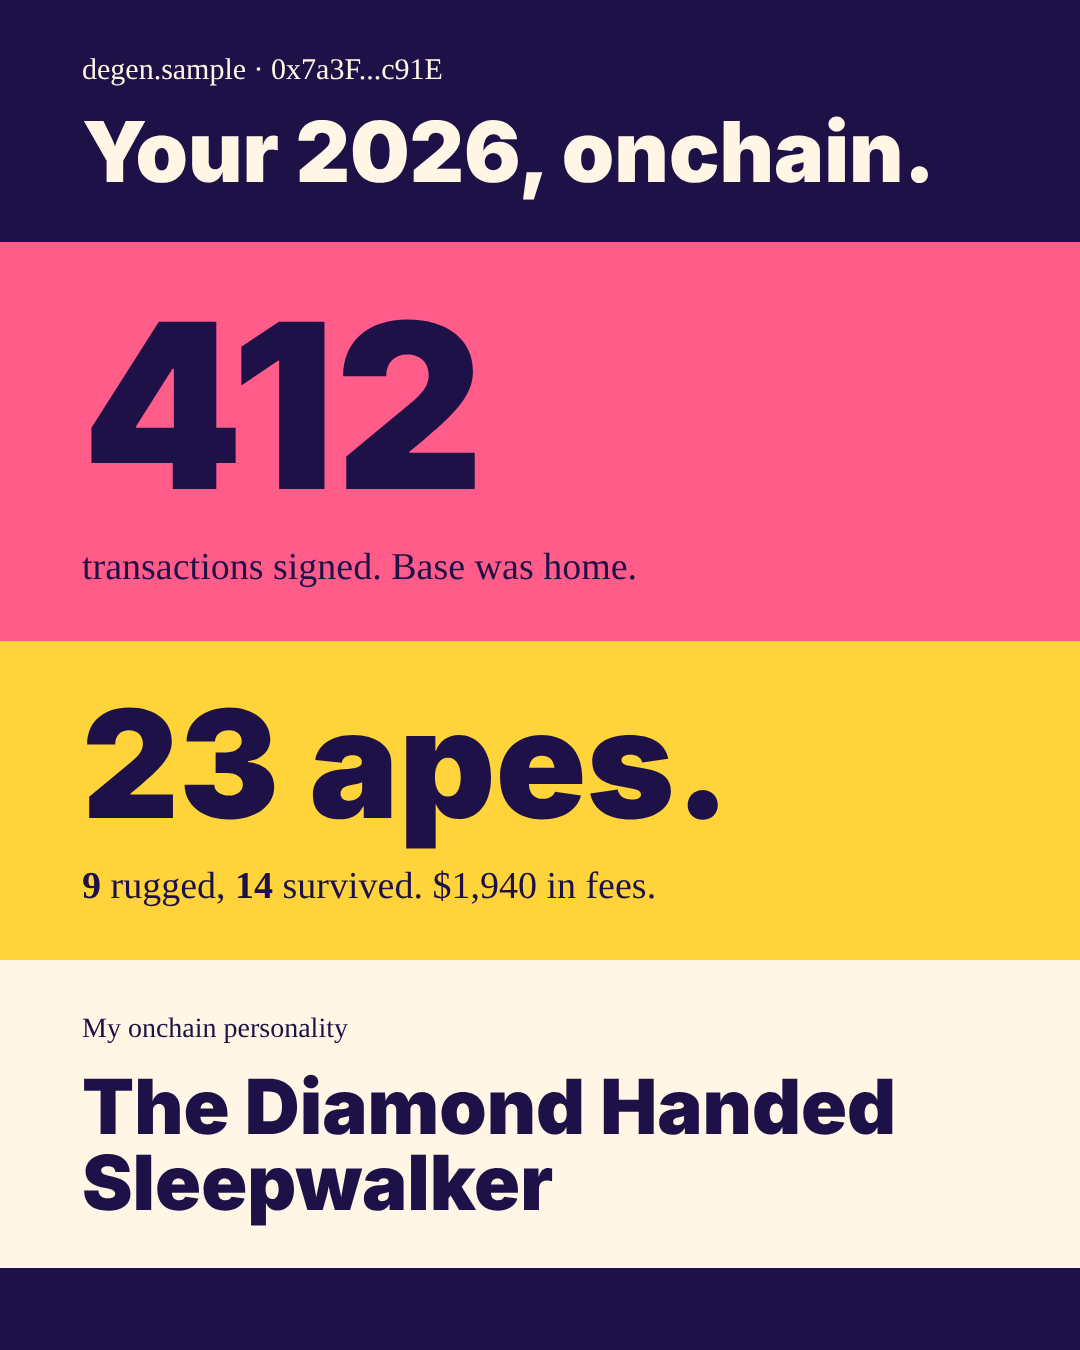
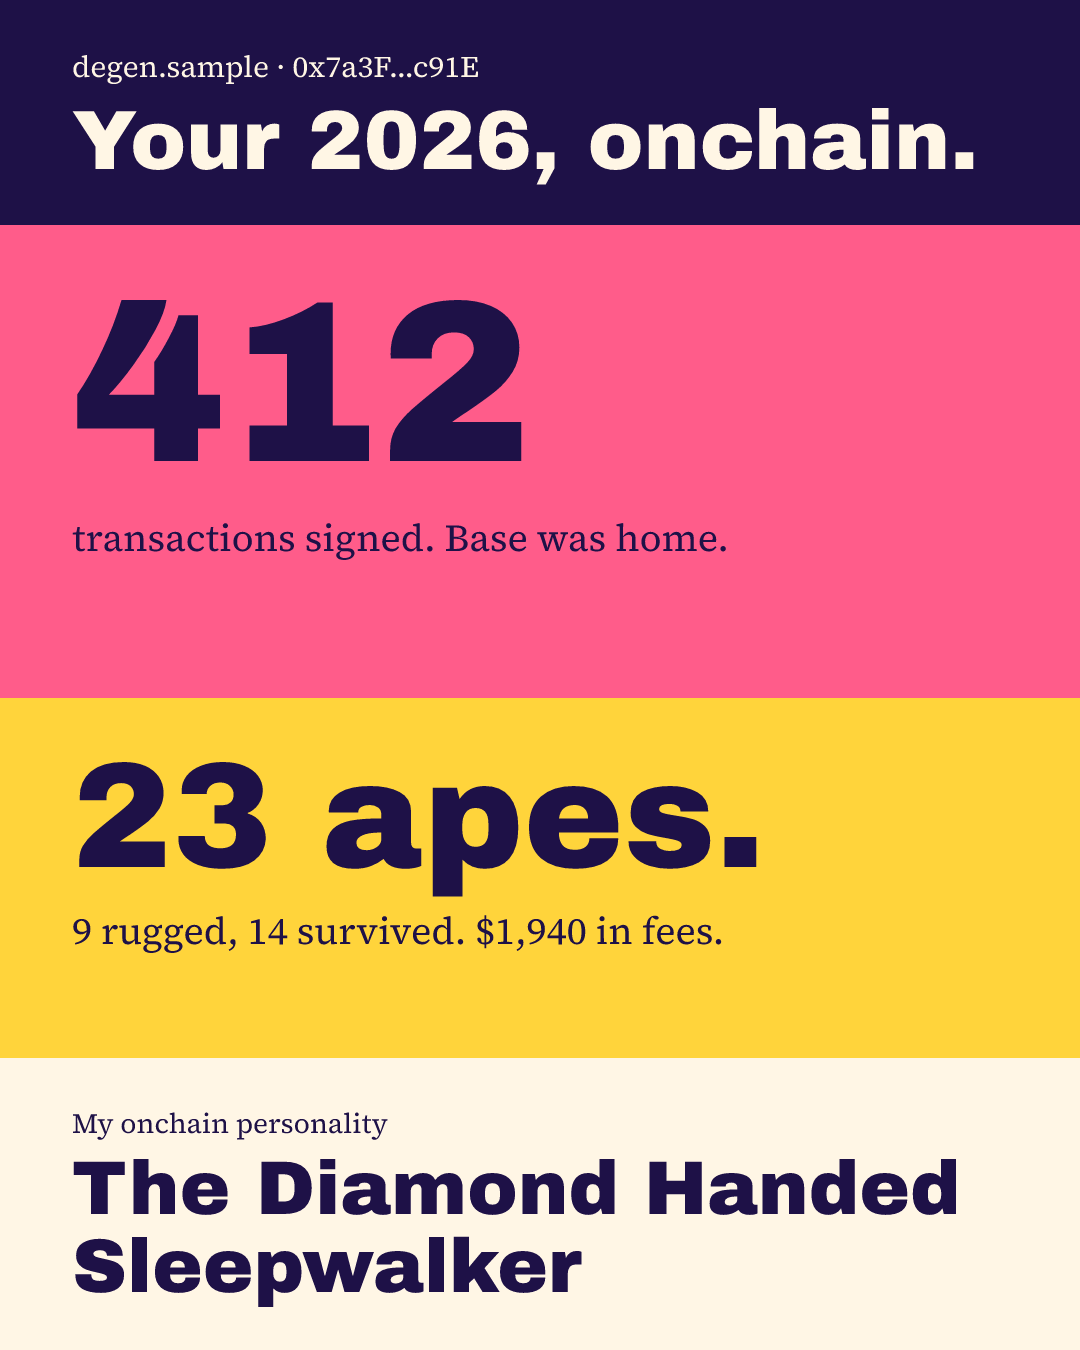
Add files via upload

diff --git a/README.md b/README.md
@@ -1,19 +1,18 @@
 # Onchain Wrapped
 
-A Spotify Wrapped style year in review for any wallet, built with **Hyper Elements** (`@unlayer/react-elements`).
-One data object and one set of components render **three outputs**:
+A Spotify Wrapped style year in review for any wallet, built with **[`@hyper-elements/react`](https://github.com/hyper-elements/hyper-elements)**.
+One data object and one set of components render **four outputs**:
 
-| Output | File | Use |
-|---|---|---|
-| Email (table based, Outlook/Gmail safe) | `email.html` | A teaser with the headline stats and a button to the full story |
-| Web page (responsive div/flexbox) | `web.html` | The full scrolling story |
-| PDF (print ready) | `onchain-wrapped.pdf` | A keepsake with a receipts page |
-| Share card (PNG) | `out/share-card.png` | A 1080x1350 image of the stats, made for posting |
+| Output | Root | Rendered with | File |
+|---|---|---|---|
+| Teaser email | `Email` | `render()` | `out/email.html`, `out/email.txt` |
+| Scrolling web story | `Page` | `render()` | `out/index.html` |
+| Keepsake PDF (6 full-bleed pages) | `Document` | `renderPdf()` | `out/wrapped.pdf` |
+| 1080 x 1350 share card | `Canvas` | `renderImage()` | `out/share-card.png` |
 
-![Web scroll](https://raw.githubusercontent.com/onchaindc/onchain-wrapped/main/wrapped-scroll.gif)
+![Web story](https://raw.githubusercontent.com/onchaindc/onchain-wrapped/main/wrapped-scroll.gif)
 
 ![Share card](https://raw.githubusercontent.com/onchaindc/onchain-wrapped/main/share-card.png)
-
 
 | Email | PDF |
 |---|---|
@@ -21,31 +20,28 @@ One data object and one set of components render **three outputs**:
 
 ## How Hyper Elements is used
 
-- **One component tree, three roots.** `src/template.tsx` builds every section as a `<Row>` / `<Column>` color block. The only thing that changes between outputs is the root: `<Email>`, `<Page>`, or `<Document>`. The email variant renders fewer blocks, the document variant adds a `<PageBreak>` and a receipts `<Table>`.
-- **Components used:** `Email`, `Page`, `Document`, `Row`, `Column`, `ColumnLayouts`, `Heading`, `Paragraph`, `Button`, `Table`, `Divider`, `PageBreak`.
-- **Custom React components inside Elements.** `Block`, `Big` and `Say` are plain React components that return Elements, so the design system lives in code.
-- **`renderToHtml`** produces the three HTML files. **`renderToJson`** writes `out/design.json`, which loads into the Unlayer visual editor so a non developer can tweak the same design.
-- **PDF:** `Document` mode outputs print HTML, and `src/pdf.ts` prints it with Playwright.
+- **One theme, four roots.** `defineTheme()` in `src/theme.ts` holds the palette (ink, flamingo, mint, sun, paper), the fonts, the button style and named styles. Every `Email`, `Page`, `Document` and `Canvas` takes the same `theme`, and designs read colors with `token("colors.flamingo")`.
+- **One tree of story blocks.** `src/template.tsx` builds each block once. In an email or page a block is a `Section`. In the PDF the same block becomes a full-bleed `Document.Page` with its own `backgroundColor`. The email shows 4 blocks, the page 8, the PDF 6.
+- **Phone styles where they exist.** Big numbers shrink on phones with `style.mobile`. The library rejects phone styles in a PDF, so the PDF gets none.
+- **Real PDF and PNG.** `renderPdf()` (from `@hyper-elements/react/pdf`) and `renderImage()` (from `@hyper-elements/react/image`) write the PDF and the share card. No browser is needed.
+- **Fitted text on the card.** The personality line uses `fit` on the `Canvas` so it picks the largest size that fits in two lines.
+- **Tables** (`Table`, `TableRow`, `TableCell`) for the chain breakdown and the receipts page.
+- **Validation as a guide.** The library's own errors and diagnostics shaped this build, for example it refused phone styles in the PDF and flagged `flex` outside a Row.
 
 ## Run it
 
 ```bash
-npm install
-npm run build     # writes out/email.html, out/web.html, out/document.html, out/design.json
-npx playwright install chromium   # first time only, for the PDF
-npm run pdf       # writes out/onchain-wrapped.pdf
-npm run card                       # writes out/share-card.png, a 1080x1350 share image
+npm install     # also copies the fonts from @fontsource into public/fonts
+npm run build   # writes everything to out/
+npm run check   # typecheck
 ```
 
-No API keys needed. All numbers are **sample data for a fictional wallet** in `src/data.ts`.
-
-## Plug in a real wallet
-
-Replace `sample` in `src/data.ts` with data from your indexer of choice (Alchemy, Helius, Covalent, Dune) that matches the `WalletYear` type. Everything else renders automatically, including the personality pick in `pickPersona`.
+Open `out/index.html` in a browser. Everything runs on **sample data for a fictional wallet** in `src/data.ts`. To use a real wallet, fill the `WalletYear` object from an indexer such as Alchemy, Helius or Dune.
 
 ## Notes
 
-- This is a novelty summary. It is not financial or tax advice.
-- The display font is Arial Black with Impact as a fallback so the email stays client safe.
+- Email clients cannot load web fonts, so the email uses Arial Black with a bold fallback instead of Archivo Black.
+- The Wrapped format is a novelty summary, not financial or tax advice.
+- Fonts: Archivo Black and Source Serif 4 (SIL Open Font License).
 
 MIT licensed.
